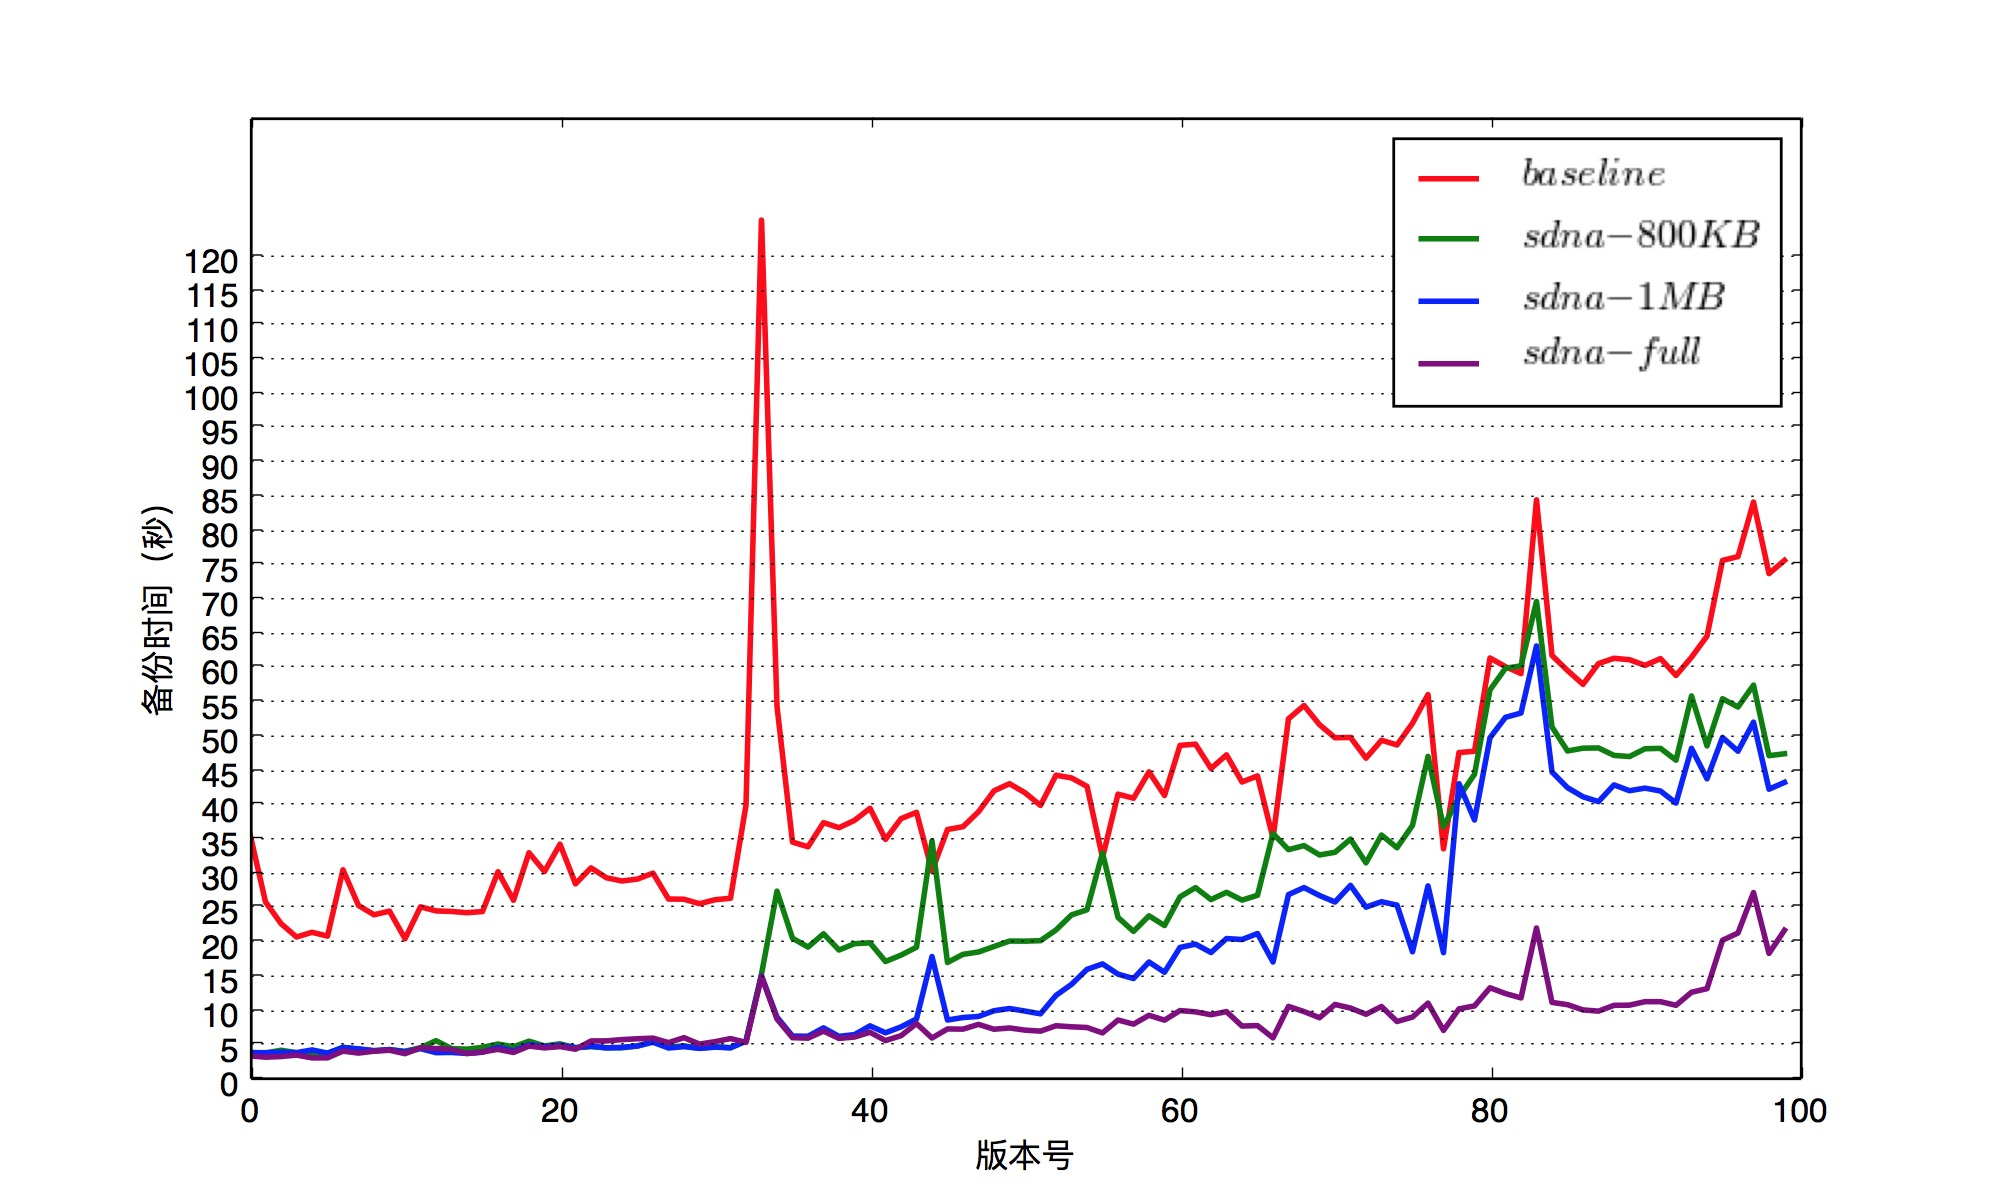
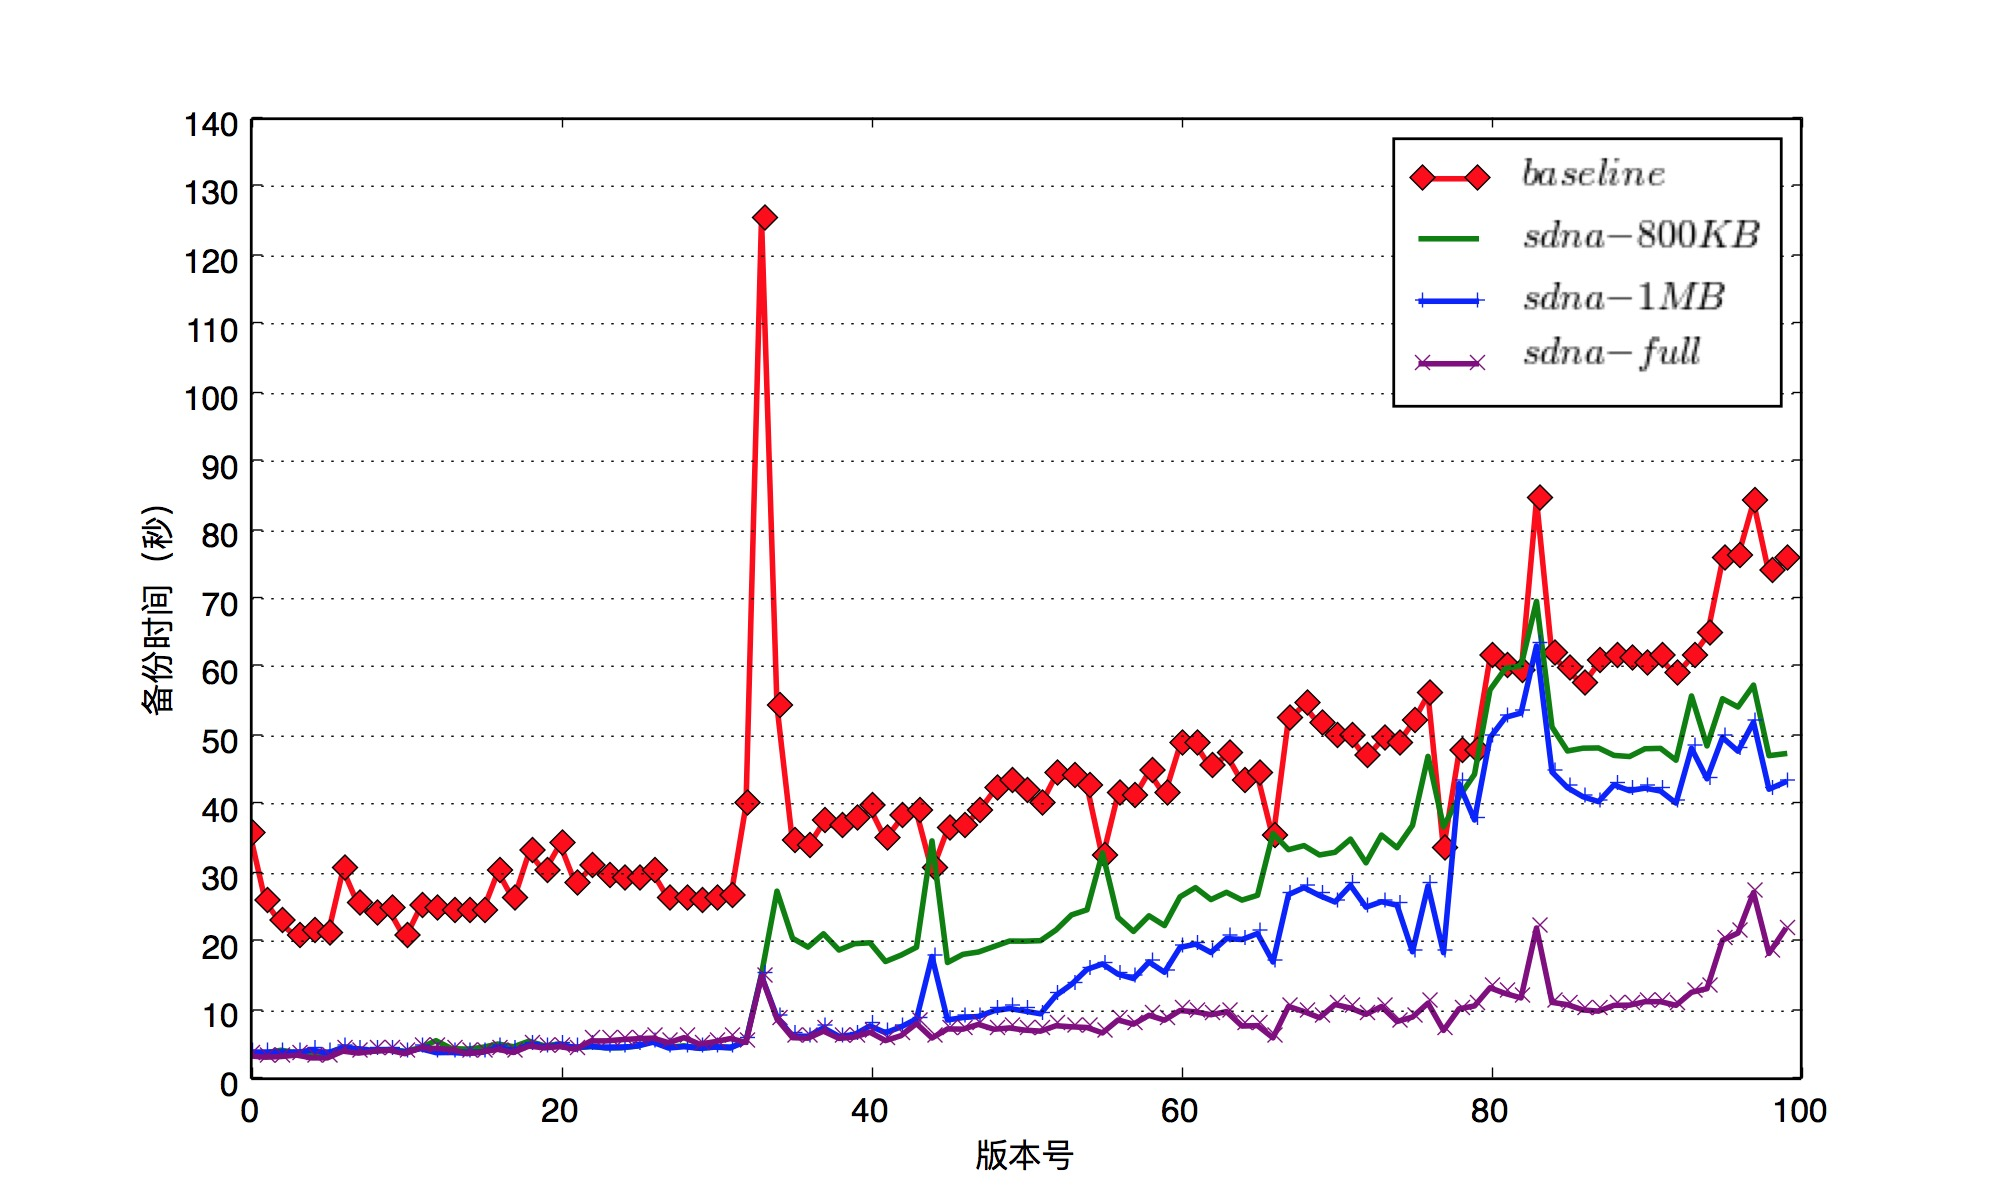
draw

diff --git a/plot/dedu_time_kernel_cache.py b/plot/dedu_time_kernel_cache.py
@@ -23,12 +23,12 @@ sdna_time_cache_full = [3.52194, 3.326431, 3.422871, 3.630502, 3.222517, 3.23039
 x = np.arange(N)
 
 plt.figure(figsize=(10,6))
-plt.plot(x, base_time, label='$baseline$',color='red' , linewidth = 2)
-plt.plot(x, sdna_time_cache_800k, label='$sdna-800KB$', color='green', linewidth = 2)
-plt.plot(x, sdna_time_cache_1mb, label='$sdna-1MB$', color='blue', linewidth = 2)
-plt.plot(x, sdna_time_cache_full, label='$sdna-full$', color='purple', linewidth = 2)
+plt.plot(x, base_time, label='$baseline$',marker="D",color='red' , linewidth = 2)
+plt.plot(x, sdna_time_cache_800k, label='$sdna-800KB$',color='green', linewidth = 2)
+plt.plot(x, sdna_time_cache_1mb, label='$sdna-1MB$', marker="+",color='blue', linewidth = 2)
+plt.plot(x, sdna_time_cache_full, label='$sdna-full$', marker="x",color='purple', linewidth = 2)
 
-yticks = np.arange(0, 125,5)
+yticks = np.arange(0, 150,10)
 plt.yticks(yticks)
 
 # add some text for labels, title and axes ticks

diff --git a/plot/dedu_time_kernel_bf.py b/plot/dedu_time_kernel_bf.py
@@ -20,12 +20,12 @@ sdna_time_cache_full_bf10k = [4.178732, 4.40786, 4.282818, 3.913264, 4.138791, 3
 x = np.arange(N)
 
 plt.figure(figsize=(10,6))
-plt.plot(x, base_time, label='$baseline$',color='red' , linewidth = 2)
-plt.plot(x, sdna_time_cache_full_bf10k, label='$sdna-bf10Kb$', color='green', linewidth = 2)
-plt.plot(x, sdna_time_cache_full_bf50k, label='$sdna-bf50Kb$', color='purple', linewidth = 2)
+plt.plot(x, base_time, label='$baseline$',marker="D", color='red' , linewidth = 2)
+plt.plot(x, sdna_time_cache_full_bf10k, label='$sdna-bf10Kb$', marker="x", color='green', linewidth = 2)
+plt.plot(x, sdna_time_cache_full_bf50k, label='$sdna-bf50Kb$', marker="+", color='purple', linewidth = 2)
 plt.plot(x, sdna_time_cache_full_bf100k, label='$sdna-bf100Kb$', color='blue', linewidth = 2)
 
-yticks = np.arange(0, 130, step = 15)
+yticks = np.arange(0, 150, step = 15)
 plt.yticks(yticks)
 
 # add some text for labels, title and axes ticks

diff --git a/plot/dedu_time_3compare.py b/plot/dedu_time_3compare.py
@@ -22,9 +22,9 @@ x = np.arange(N)
 
 plt.figure(figsize=(10,6))
 #plt.plot(x, base_time, label='$baseline-1Gb$',color='red' , linewidth = 2)
-plt.plot(x, base_time2, label='$baseline$',color='red' , linewidth = 2)
-plt.plot(x, bloom_time, label='$bloom$', color='blue', linewidth = 2)
-plt.plot(x, sdna_time, label='$sdna$', color='purple', linewidth = 2)
+plt.plot(x, base_time2, label='$baseline$',marker='^',color='red' , linewidth = 2)
+plt.plot(x, bloom_time, label='$Bloom$', color='blue', linewidth = 2)
+plt.plot(x, sdna_time, label='$sdna$', marker='+', color='purple', linewidth = 2)
 
 yticks = np.arange(0, 130, step = 15)
 plt.yticks(yticks)

diff --git a/plot/dedu_time_topo2.py b/plot/dedu_time_topo2.py
@@ -18,10 +18,10 @@ bloom_linear20=(62.160789, 51.847004, 45.635466, 39.542766, 40.421912, 39.412397
 x = np.arange(N)
 
 #plt.figure(figsize=(10,6))
-plt.plot(x, bloom_linear10, label='$bloom-linear10$',color='red' , linewidth = 2)
-plt.plot(x, bloom_linear20, label='$bloom-linear20$', color='green', linewidth = 2)
+plt.plot(x, bloom_linear10, label='$Bloom-linear10$',color='red' , linewidth = 2)
+plt.plot(x, bloom_linear20, label='$Bloom-linear20$', marker="x",color='green', linewidth = 2)
 
-yticks = np.arange(0, 225, step = 15)
+yticks = np.arange(0, 250, step = 25)
 plt.yticks(yticks)
 
 # add some text for labels, title and axes ticks

diff --git a/plot/dedu_time_topo.py b/plot/dedu_time_topo.py
@@ -21,9 +21,9 @@ linear30 = (7.580136, 6.857717, 6.775111, 5.826816, 5.359253, 4.903776, 8.435962
 x = np.arange(N)
 
 plt.figure(figsize=(10,6))
-plt.plot(x, linear10, label='$sdna-linear10$',color='red' , linewidth = 2)
+plt.plot(x, linear10, label='$sdna-linear10$',marker="x", color='red' , linewidth = 2)
 plt.plot(x, linear20, label='$sdna-linear20$', color='green', linewidth = 2)
-plt.plot(x, linear30, label='$sdna-linear30$', color='purple', linewidth = 2)
+plt.plot(x, linear30, label='$sdna-linear30$', marker="+",color='purple', linewidth = 2)
 
 yticks = np.arange(0, 70, step = 5)
 plt.yticks(yticks)

diff --git a/plot/dedu_time_1g_kernel.py b/plot/dedu_time_1g_kernel.py
@@ -18,10 +18,10 @@ sdna_time_cache_full_bf50k = [3.52194, 3.326431, 3.422871, 3.630502, 3.222517, 3
 x = np.arange(N)
 
 plt.figure(figsize=(10,6))
-plt.plot(x, base_time, label='$baseline-1Gb$',color='red' , linewidth = 2)
+plt.plot(x, base_time, label='$baseline-1Gb$',marker="x", color='red' , linewidth = 2)
 plt.plot(x, sdna_time_cache_full_bf50k, label='$sdna-1Gb$', color='purple', linewidth = 2)
 
-yticks = np.arange(0, 130, step = 15)
+yticks = np.arange(0, 150, step = 15)
 plt.yticks(yticks)
 
 # add some text for labels, title and axes ticks

diff --git a/plot/dedu_time_10m.py b/plot/dedu_time_10m.py
@@ -19,7 +19,7 @@ print sdna_time_10m[23]
 x = np.arange(N)
 
 #plt.figure(figsize=(8,6))
-plt.plot(x, base_time_10m, label='$baseline-10Mb$', color='red', linewidth = 2)
+plt.plot(x, base_time_10m, label='$baseline-10Mb$', marker="x",color='red', linewidth = 2)
 plt.plot(x, sdna_time_10m, label='$sdna-10Mb$', color='blue', linewidth = 2)
 
 # add some text for labels, title and axes ticks

diff --git a/plot/dedu_time_1g.py b/plot/dedu_time_1g.py
@@ -19,7 +19,7 @@ print sdna_time_1000m[23]
 x = np.arange(N)
 
 #plt.figure(figsize=(10,8))
-plt.plot(x, base_time_1000m, label='$baseline-1Gb$',color='red' , linewidth = 2)
+plt.plot(x, base_time_1000m, label='$baseline-1Gb$',marker="x", color='red' , linewidth = 2)
 plt.plot(x, sdna_time_1000m, label='$sdna-1Gb$', color='blue', linewidth = 2)
 
 #yticks = np.linspace(0, 200, num = 10)

diff --git a/plot/dedu_time_10g.py b/plot/dedu_time_10g.py
@@ -20,7 +20,7 @@ print sdna_time_10g[23]
 x = np.arange(N)
 
 #plt.figure(figsize=(10,8))
-plt.plot(x, base_time, label='$baseline-10Gb$', color="red", linewidth=2)
+plt.plot(x, base_time, label='$baseline-10Gb$', marker = "x", color="red", linewidth=2)
 plt.plot(x, sdna_time_10g, label='$sdna-10Gb$', color='blue', linewidth = 2)
 
 #yticks = np.linspace(0, 200, num = 10)
